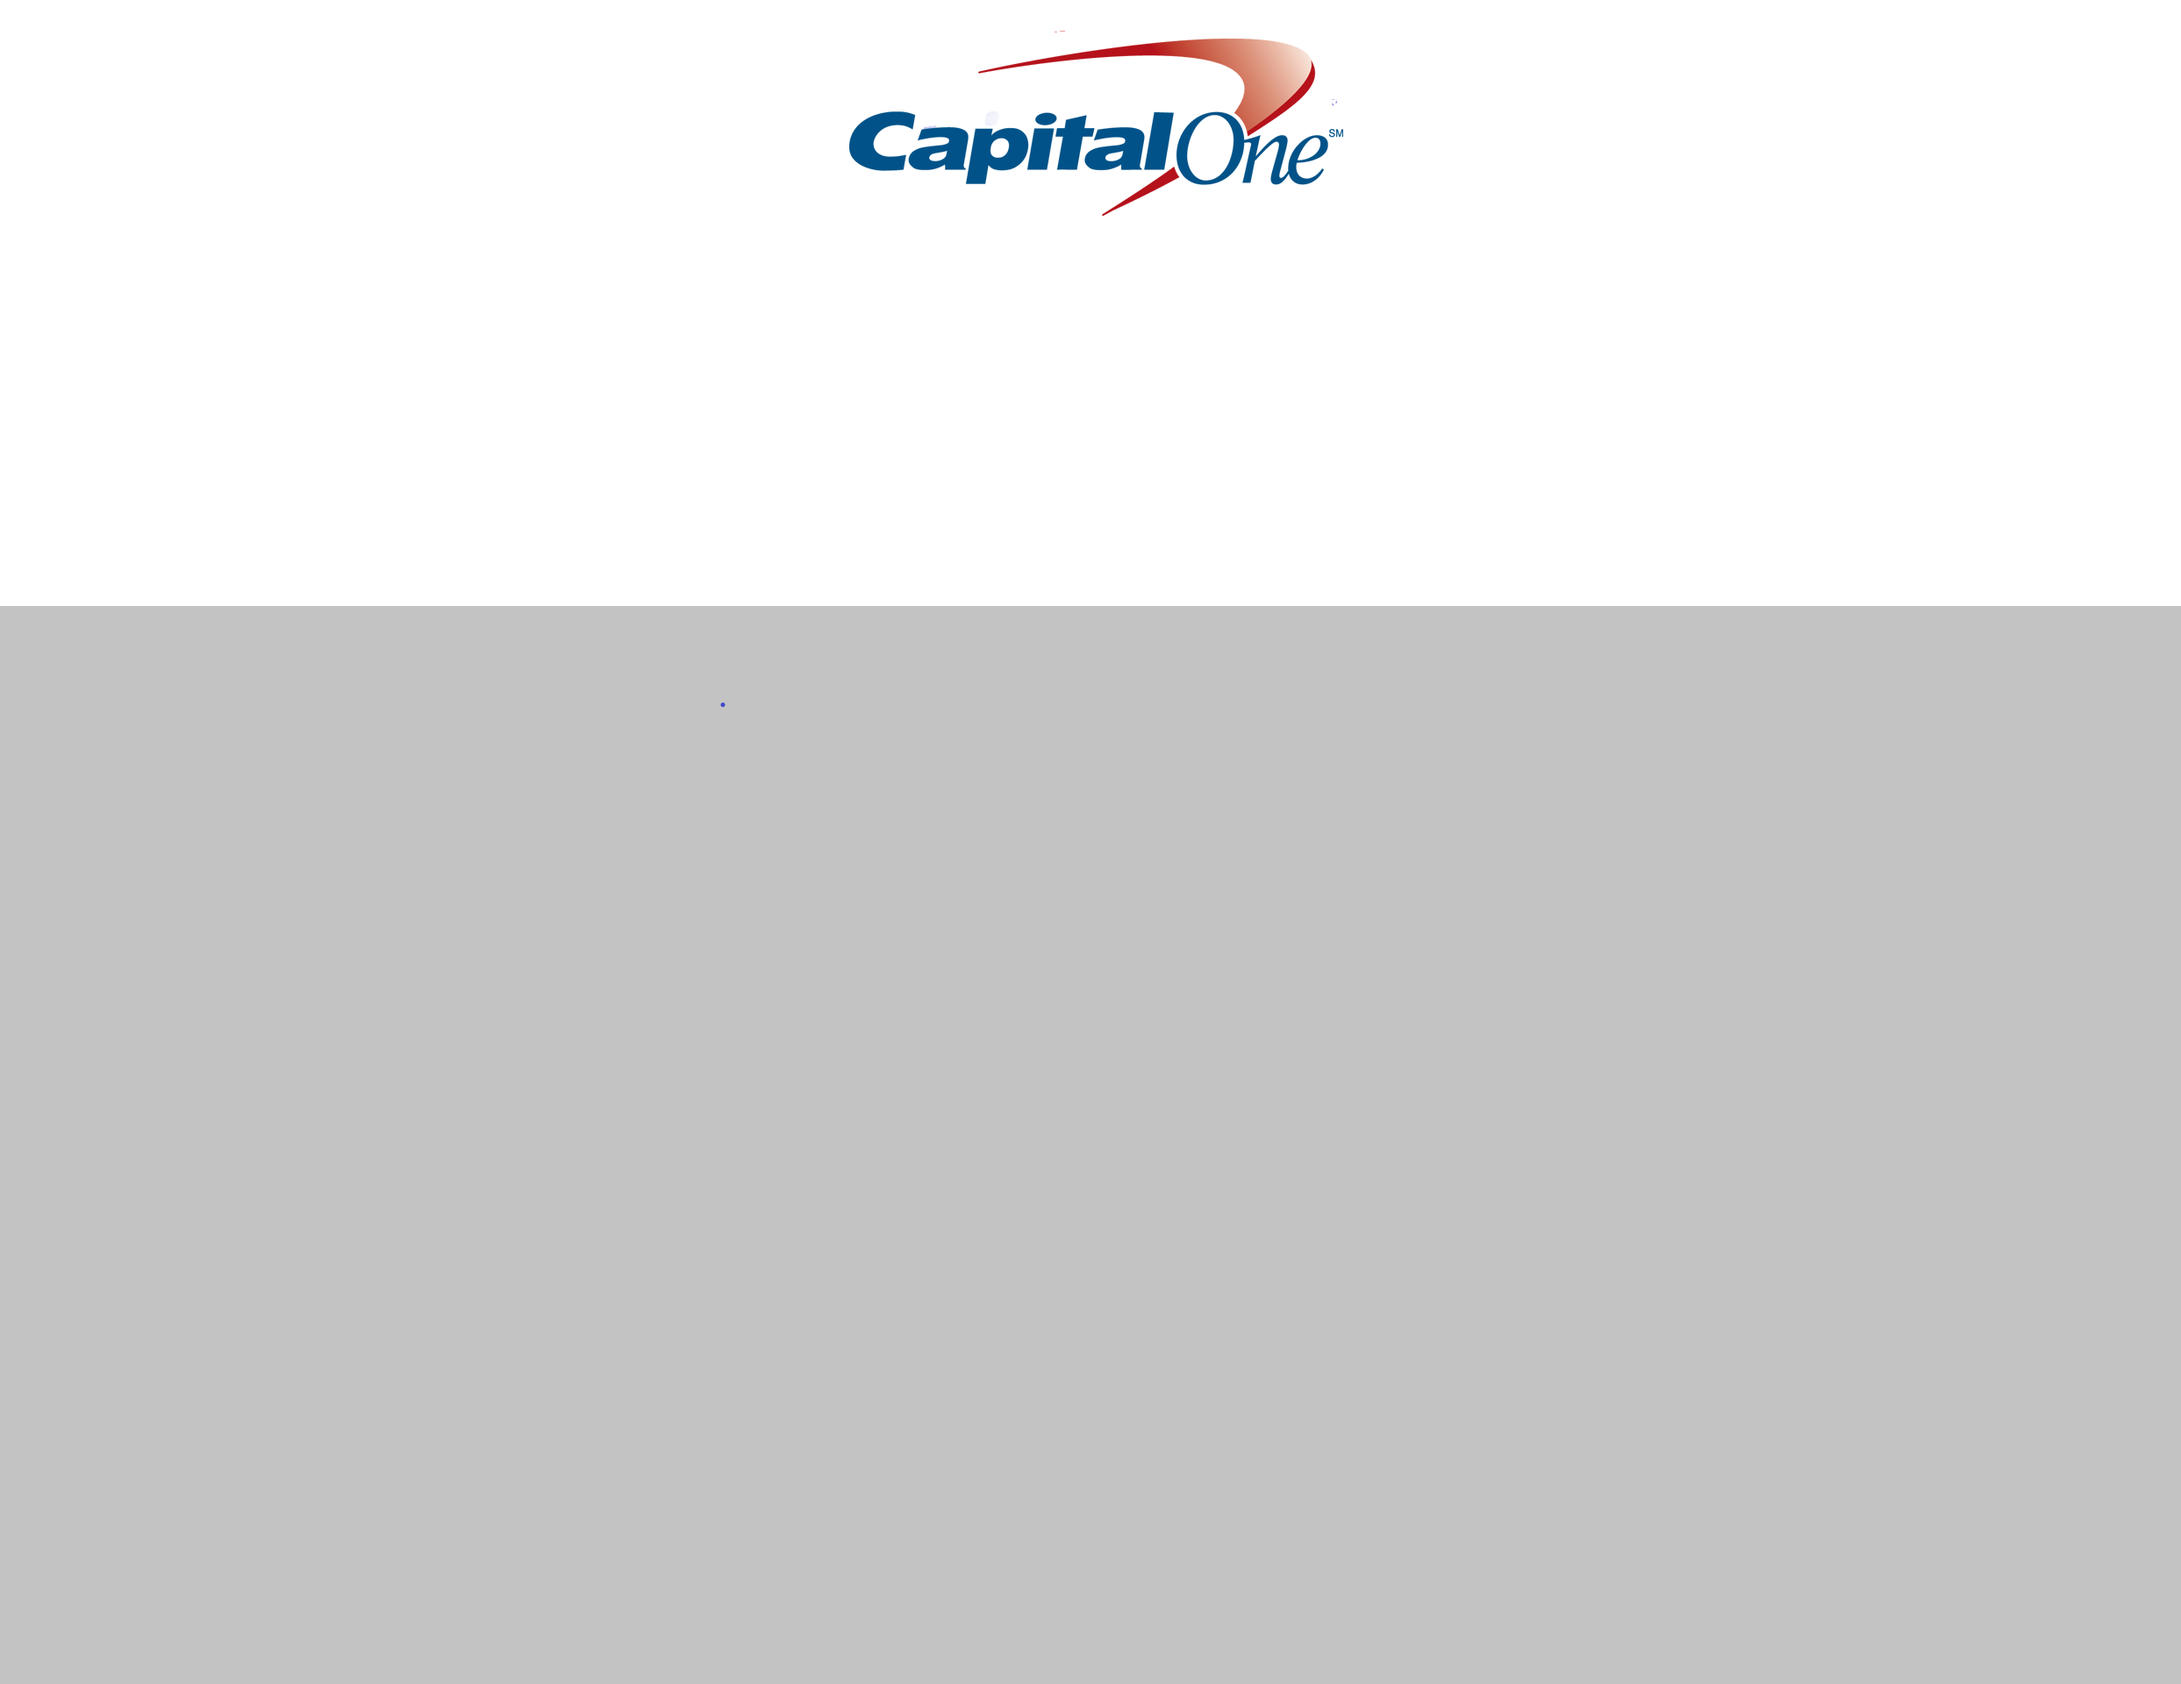
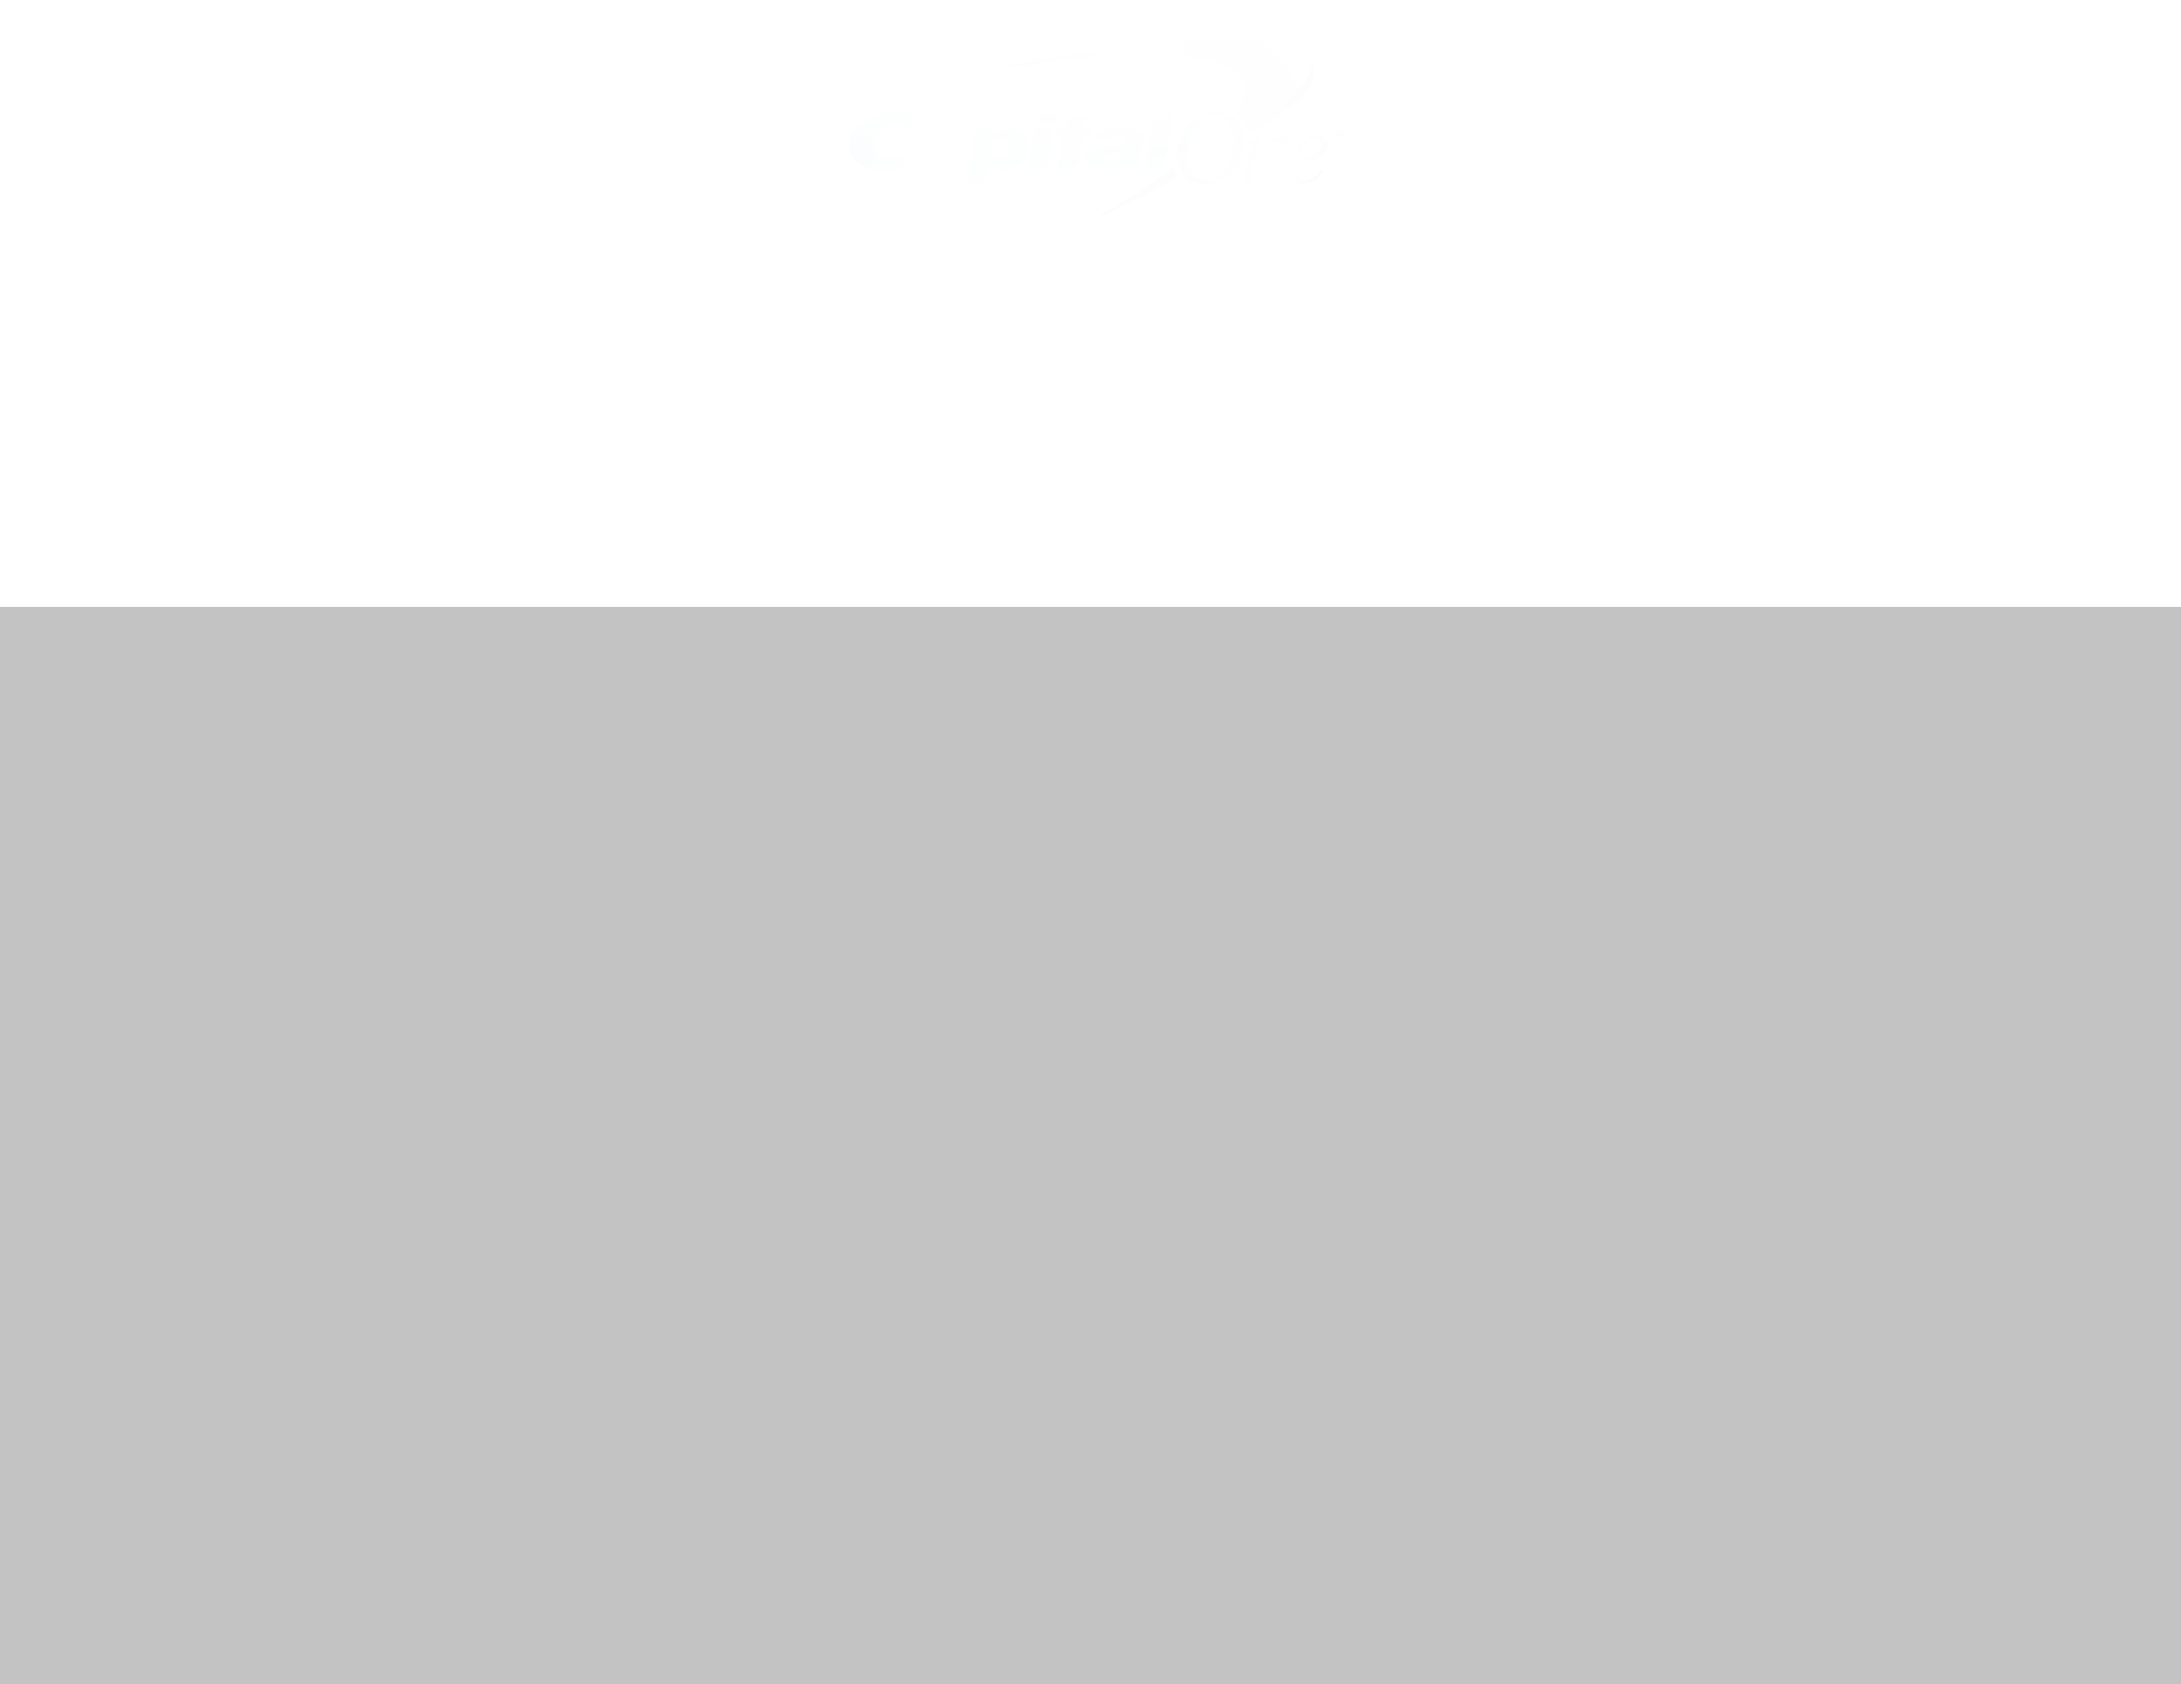
employee interface

Changed region(s): [[0.3717, 0.0, 0.6195, 0.125]]

diff --git a/WinterVacationWork/EmployeeInterface/employeeInterface.css b/WinterVacationWork/EmployeeInterface/employeeInterface.css
@@ -1,5 +1,10 @@
+html{
+  min-height:100%;
+  min-width:100%;
+}
 body{
-  background: url('Image/background.png') no-repeat top center;
+  height:100%;
+  background: url('Image/background.png') no-repeat center center;
   -moz-background-size: cover;
   -webkit-background-size: cover;
   -o-background-size: cover;
@@ -7,7 +12,16 @@ body{
 }
 #window{
   text-align: center;
-  padding-top:11.5%;
+}
+#logo{
+  margin-top:1%;
+  width: 300px;
+  height: 120px;
+  margin-right:auto;
+  margin-left: auto;
+  background-image: url("Image/capital-one-logo.png");
+  background-size: cover;
+  background-position: center;
 }
 #wrapper{
     padding-top:1%;
@@ -30,6 +44,7 @@ label{
 }
 button{
   border-radius: 25px;
+  margin:2%;
 }
 #profilePic{
     width: 100px;
@@ -49,8 +64,6 @@ button{
 }
 
 #passwordWindow{
-    display: none;
+    display:none;
 }
-
 /* need to come back and add media queries for responsive design*/
-/*issue when screen is small white space at bottom*/

diff --git a/WinterVacationWork/EmployeeInterface/employeeInterface.html b/WinterVacationWork/EmployeeInterface/employeeInterface.html
@@ -11,6 +11,7 @@
 
 <body>
   <div id="window">
+    <div id="logo"></div>
     <div id="wrapper">
       <table>
           <tbody>
